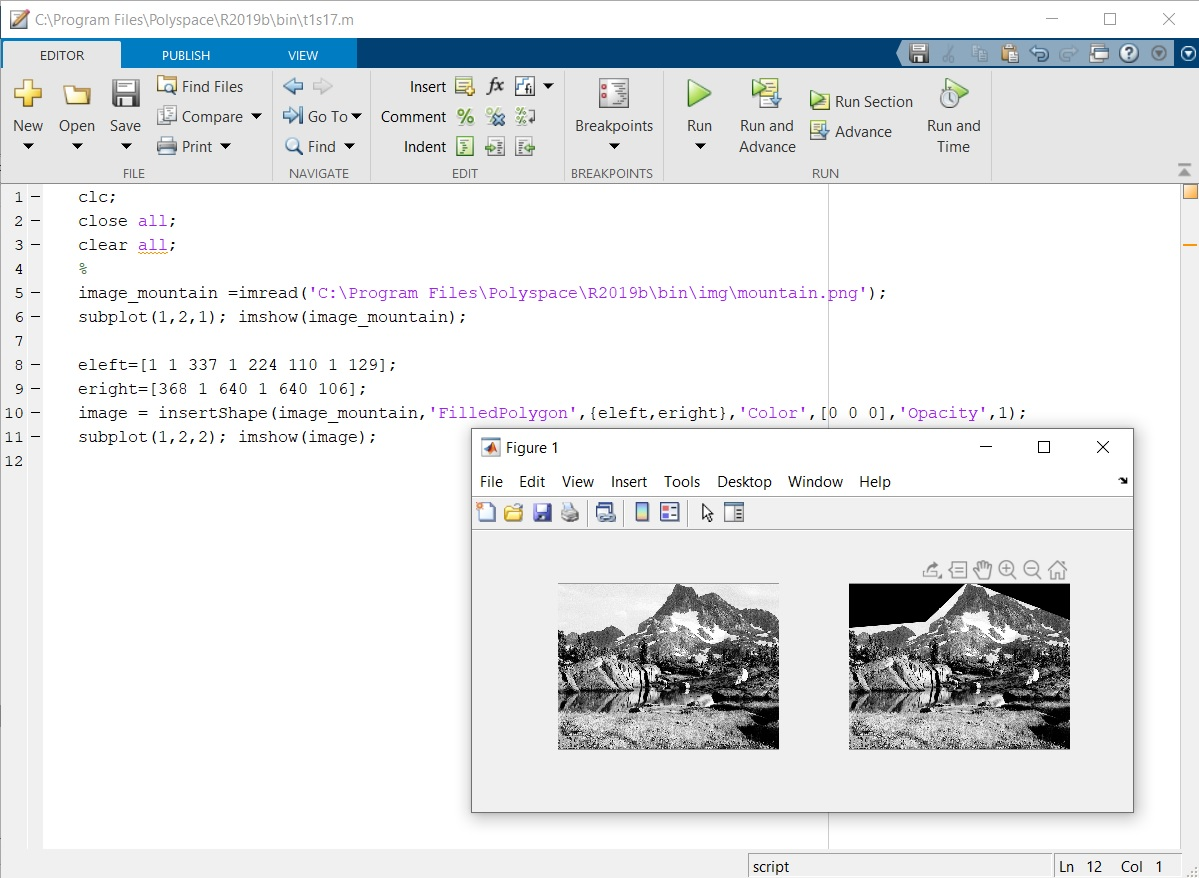
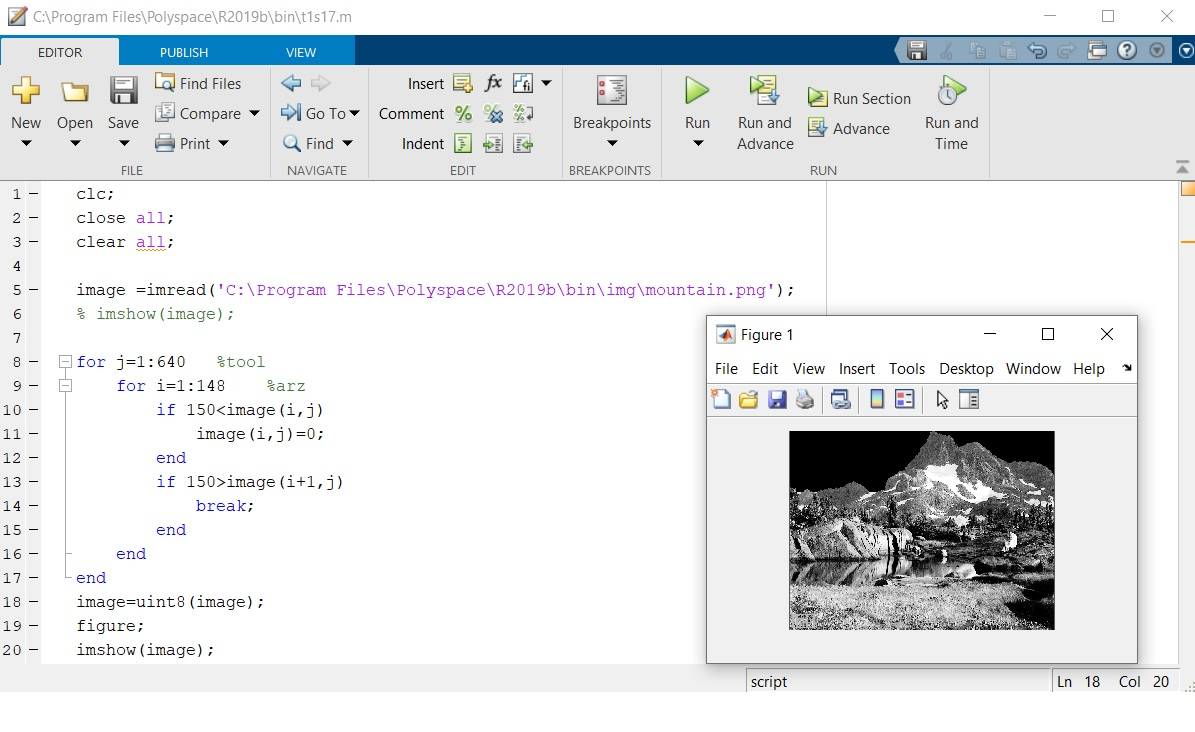
t1

diff --git a/excersiecs/ssaharrf1375/17/t1s17.m b/excersiecs/ssaharrf1375/17/t1s17.m
@@ -1,11 +1,20 @@
 clc;
 close all;
 clear all;
-% 
-image_mountain =imread('C:\Program Files\Polyspace\R2019b\bin\img\mountain.png');
-subplot(1,2,1); imshow(image_mountain);
 
-eleft=[1 1 337 1 224 110 1 129];
-eright=[368 1 640 1 640 106];
-image = insertShape(image_mountain,'FilledPolygon',{eleft,eright},'Color',[0 0 0],'Opacity',1);
-subplot(1,2,2); imshow(image);
+image =imread('C:\Program Files\Polyspace\R2019b\bin\img\mountain.png');
+% imshow(image);
+
+for j=1:640   %tool
+    for i=1:148    %arz
+        if 150<image(i,j)
+            image(i,j)=0;
+        end
+        if 150>image(i+1,j)
+            break;
+        end
+    end
+end
+image=uint8(image);
+figure;
+imshow(image);
